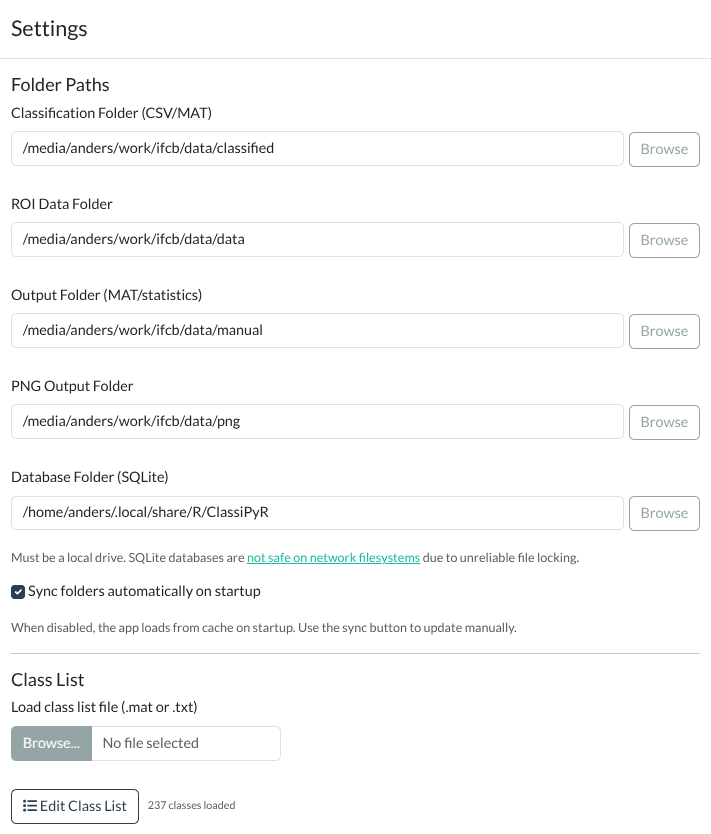
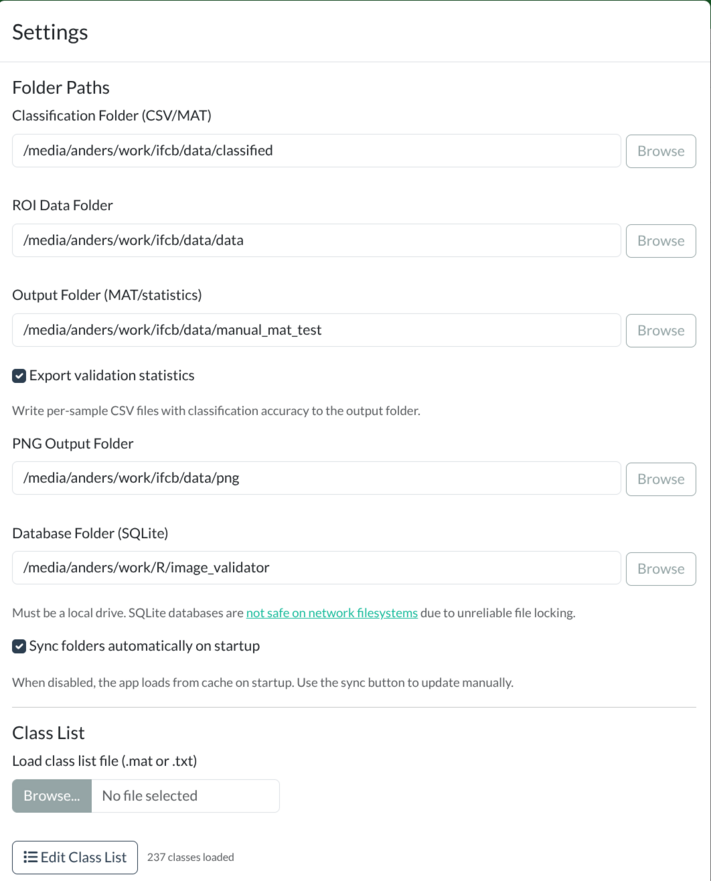
0.1.1 (#11)
* feat: add option to skip validation statistics export (#9)

Add an 'Export validation statistics' checkbox in Settings (below the
output folder path) and a corresponding export_statistics parameter in
save_sample_annotations(). Defaults to TRUE for backward compatibility;
uncheck when annotating from scratch to skip writing the CSV files.

* feat: add confirmation dialog before .mat export (#10)

Show a modal explaining that existing .mat files in the output folder
will be overwritten, with Cancel and Export (danger) buttons, before
running the bulk SQLite -> .mat export from the Settings panel.

* docs: update settings screenshot

* chore: bump version

diff --git a/NEWS.md b/NEWS.md
@@ -1,3 +1,10 @@
+# ClassiPyR 0.1.1
+
+## New features
+
+- Added **"Export validation statistics"** checkbox in Settings (below the output folder path). When unchecked, per-sample CSV files are not written to the `validation_statistics/` subfolder. Useful when annotating from scratch where validation statistics are not relevant (#9).
+- Added a **confirmation dialog** before bulk export of SQLite annotations to `.mat` files. The dialog explains that existing `.mat` files in the output folder will be overwritten, preventing accidental data loss (#10).
+
 # ClassiPyR 0.1.0
 
 Initial release of ClassiPyR, a Shiny application for manual classification and validation of Imaging FlowCytobot (IFCB) plankton images.
